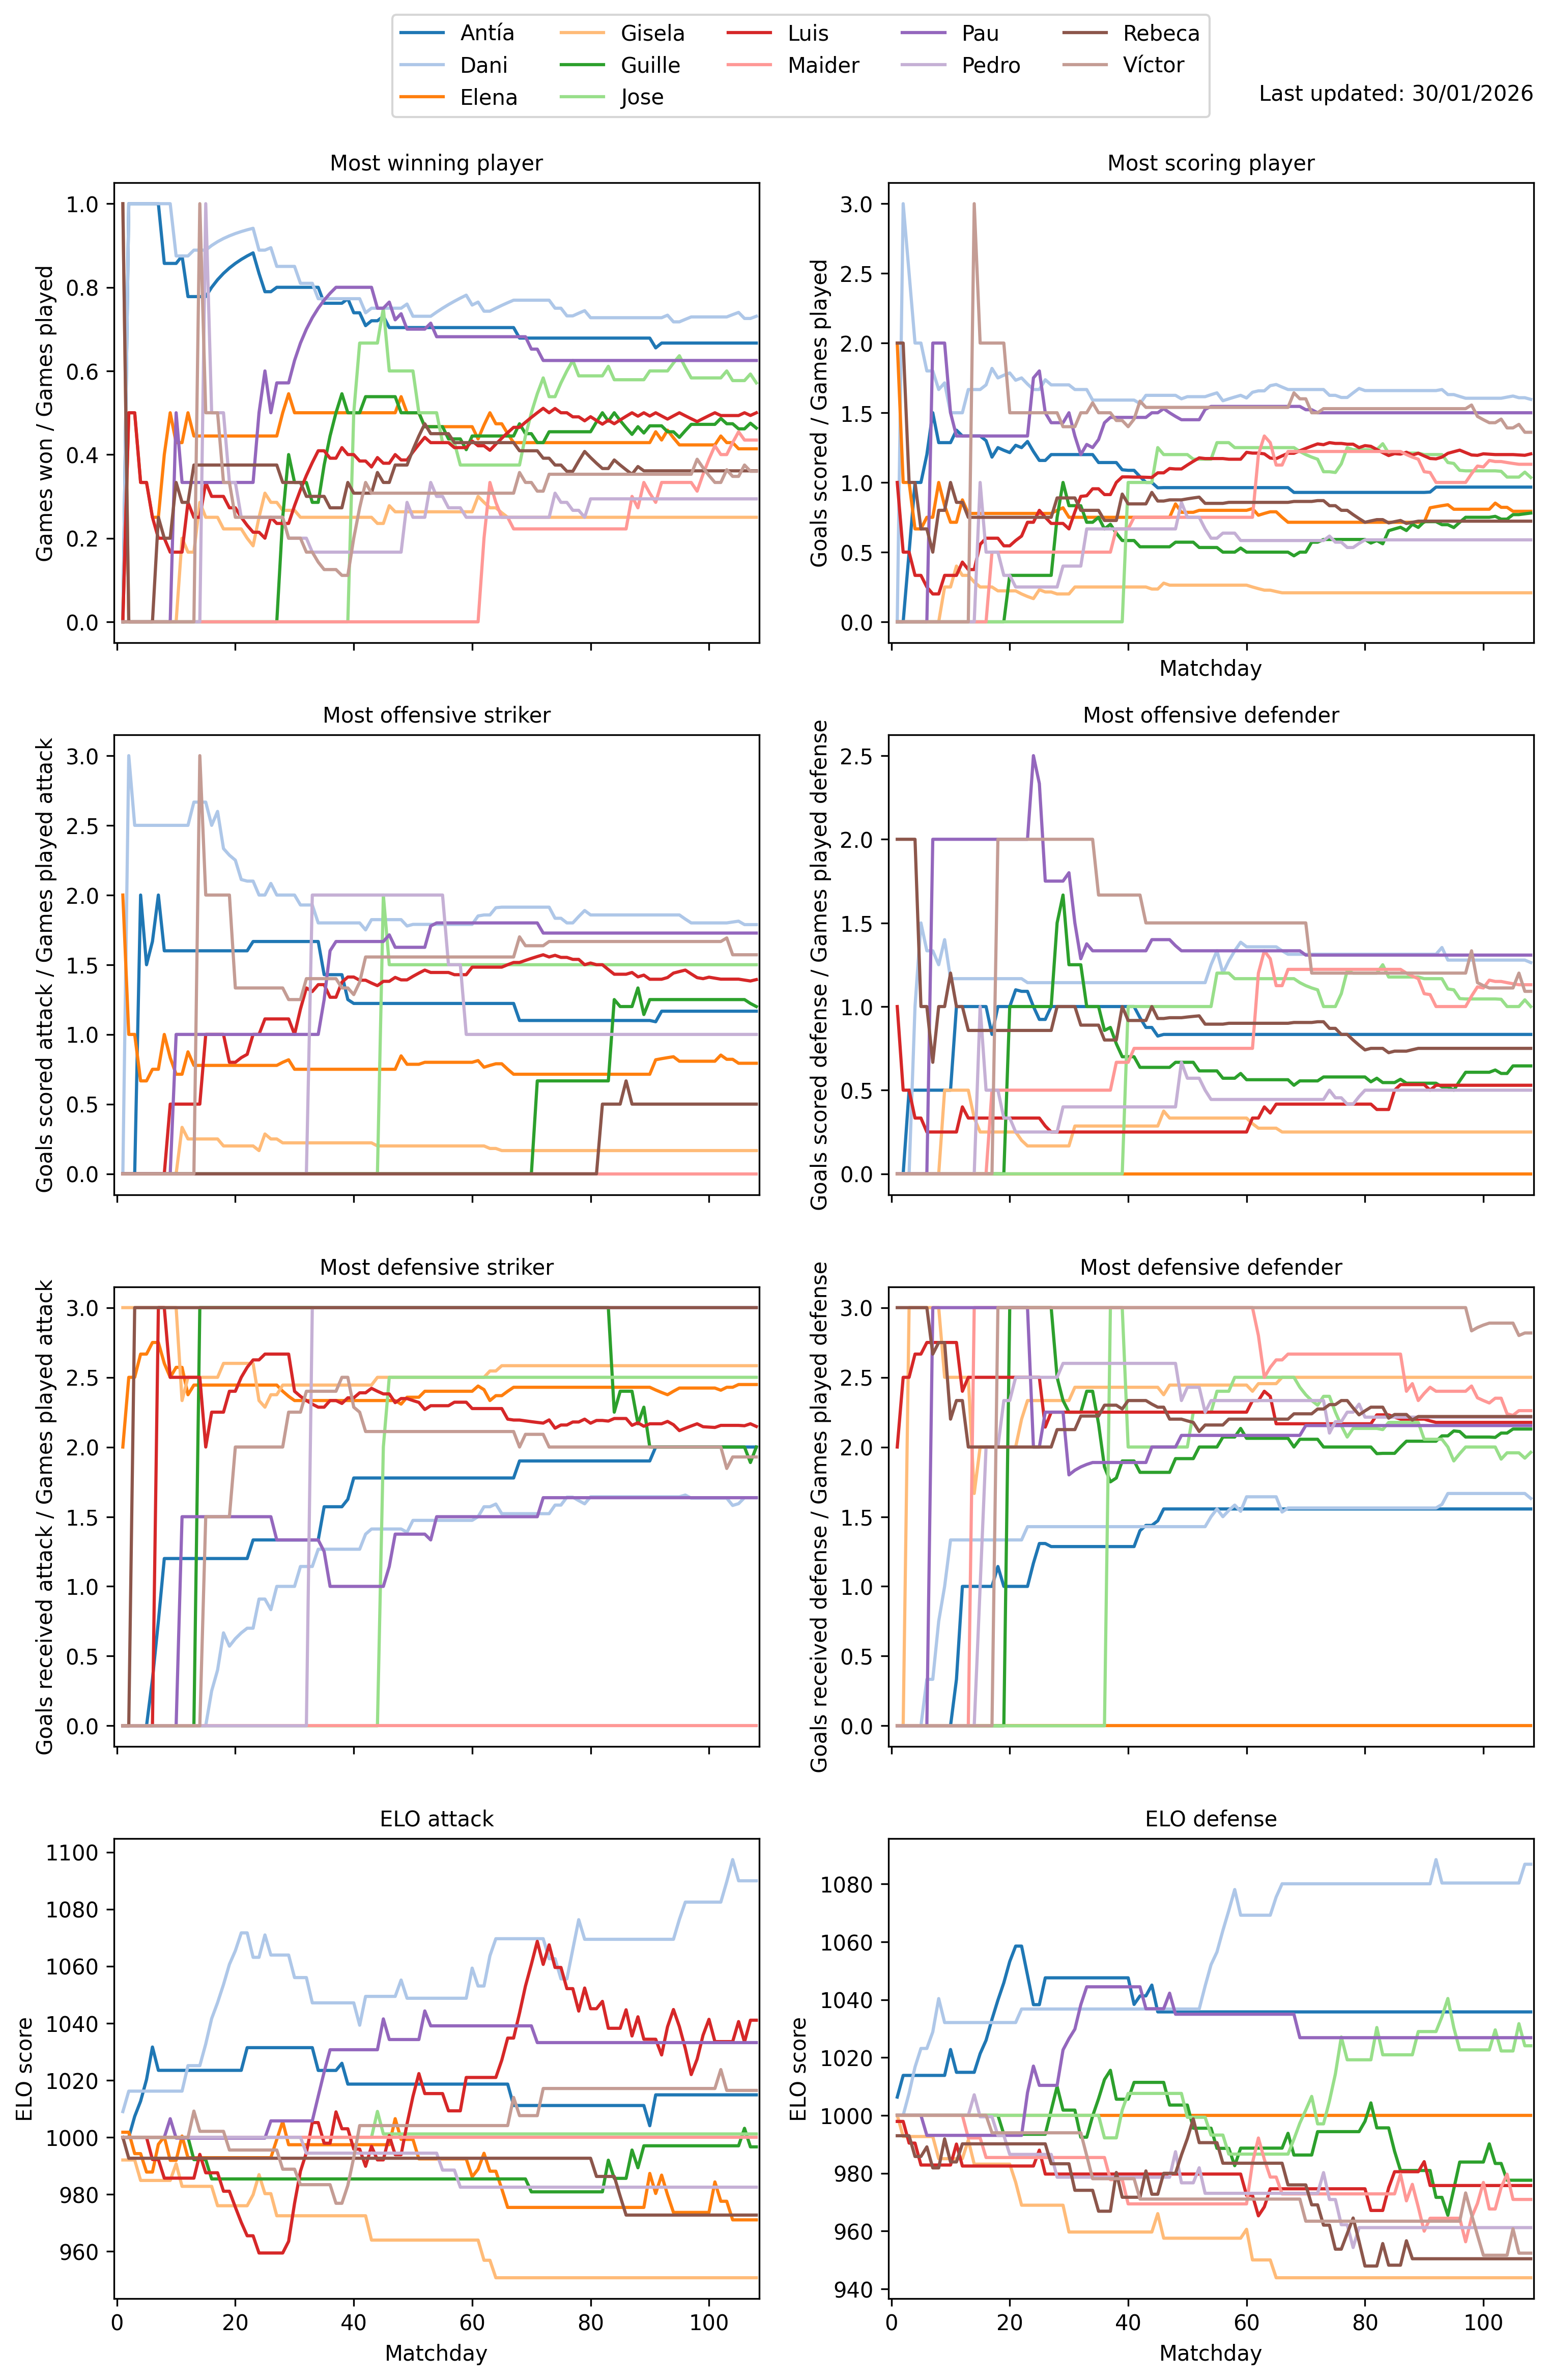
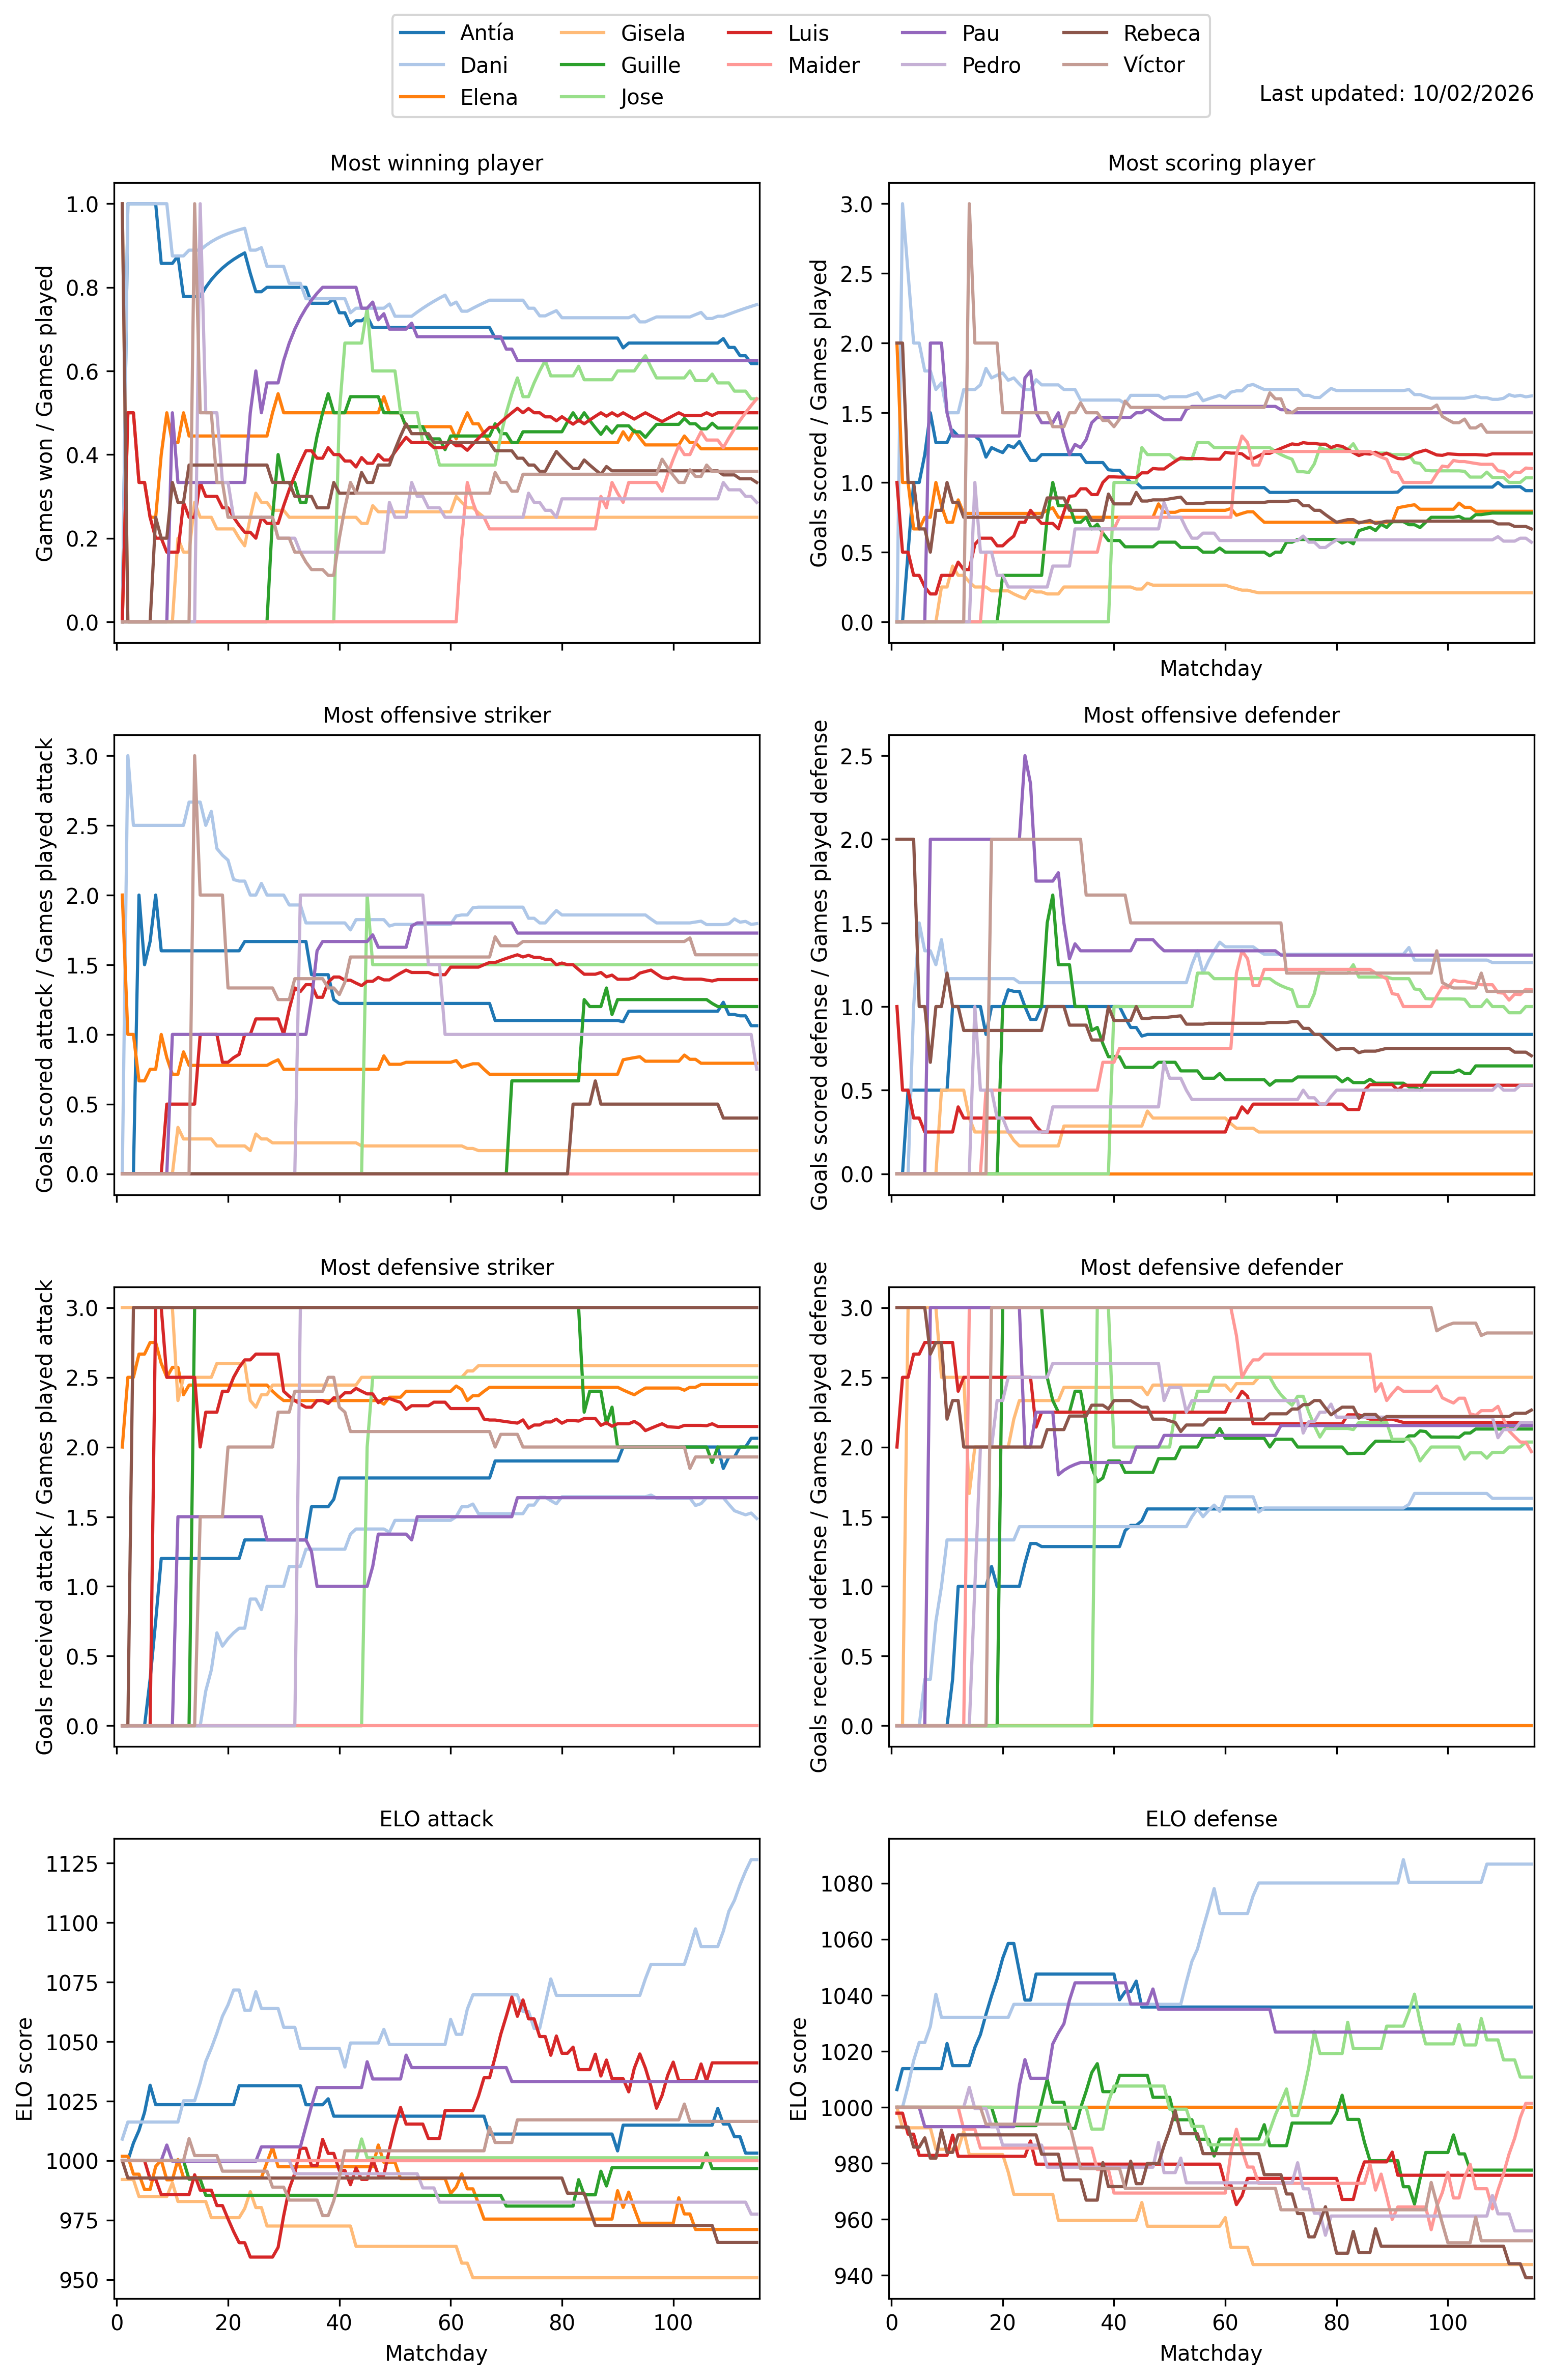
Updated to Matchday 17

diff --git a/results/winplayed_stats.html b/results/winplayed_stats.html
@@ -1,74 +1,74 @@
 <style type="text/css">
 </style>
-<table id="T_5bf5f">
-  <caption>Games won / Games played (Matchday 108)</caption>
+<table id="T_b47fa">
+  <caption>Games won / Games played (Matchday 115)</caption>
   <thead>
     <tr>
       <th class="blank level0" >&nbsp;</th>
-      <th id="T_5bf5f_level0_col0" class="col_heading level0 col0" >0</th>
-      <th id="T_5bf5f_level0_col1" class="col_heading level0 col1" >1</th>
+      <th id="T_b47fa_level0_col0" class="col_heading level0 col0" >0</th>
+      <th id="T_b47fa_level0_col1" class="col_heading level0 col1" >1</th>
     </tr>
   </thead>
   <tbody>
     <tr>
-      <th id="T_5bf5f_level0_row0" class="row_heading level0 row0" >1</th>
-      <td id="T_5bf5f_row0_col0" class="data row0 col0" >Dani</td>
-      <td id="T_5bf5f_row0_col1" class="data row0 col1" >0.73</td>
+      <th id="T_b47fa_level0_row0" class="row_heading level0 row0" >1</th>
+      <td id="T_b47fa_row0_col0" class="data row0 col0" >Dani</td>
+      <td id="T_b47fa_row0_col1" class="data row0 col1" >0.76</td>
     </tr>
     <tr>
-      <th id="T_5bf5f_level0_row1" class="row_heading level0 row1" >2</th>
-      <td id="T_5bf5f_row1_col0" class="data row1 col0" >Antía</td>
-      <td id="T_5bf5f_row1_col1" class="data row1 col1" >0.67</td>
+      <th id="T_b47fa_level0_row1" class="row_heading level0 row1" >2</th>
+      <td id="T_b47fa_row1_col0" class="data row1 col0" >Pau</td>
+      <td id="T_b47fa_row1_col1" class="data row1 col1" >0.62</td>
     </tr>
     <tr>
-      <th id="T_5bf5f_level0_row2" class="row_heading level0 row2" >3</th>
-      <td id="T_5bf5f_row2_col0" class="data row2 col0" >Pau</td>
-      <td id="T_5bf5f_row2_col1" class="data row2 col1" >0.62</td>
+      <th id="T_b47fa_level0_row2" class="row_heading level0 row2" >3</th>
+      <td id="T_b47fa_row2_col0" class="data row2 col0" >Antía</td>
+      <td id="T_b47fa_row2_col1" class="data row2 col1" >0.62</td>
     </tr>
     <tr>
-      <th id="T_5bf5f_level0_row3" class="row_heading level0 row3" >4</th>
-      <td id="T_5bf5f_row3_col0" class="data row3 col0" >Jose</td>
-      <td id="T_5bf5f_row3_col1" class="data row3 col1" >0.57</td>
+      <th id="T_b47fa_level0_row3" class="row_heading level0 row3" >4</th>
+      <td id="T_b47fa_row3_col0" class="data row3 col0" >Maider</td>
+      <td id="T_b47fa_row3_col1" class="data row3 col1" >0.53</td>
     </tr>
     <tr>
-      <th id="T_5bf5f_level0_row4" class="row_heading level0 row4" >5</th>
-      <td id="T_5bf5f_row4_col0" class="data row4 col0" >Luis</td>
-      <td id="T_5bf5f_row4_col1" class="data row4 col1" >0.5</td>
+      <th id="T_b47fa_level0_row4" class="row_heading level0 row4" >5</th>
+      <td id="T_b47fa_row4_col0" class="data row4 col0" >Jose</td>
+      <td id="T_b47fa_row4_col1" class="data row4 col1" >0.53</td>
     </tr>
     <tr>
-      <th id="T_5bf5f_level0_row5" class="row_heading level0 row5" >6</th>
-      <td id="T_5bf5f_row5_col0" class="data row5 col0" >Guille</td>
-      <td id="T_5bf5f_row5_col1" class="data row5 col1" >0.46</td>
+      <th id="T_b47fa_level0_row5" class="row_heading level0 row5" >6</th>
+      <td id="T_b47fa_row5_col0" class="data row5 col0" >Luis</td>
+      <td id="T_b47fa_row5_col1" class="data row5 col1" >0.5</td>
     </tr>
     <tr>
-      <th id="T_5bf5f_level0_row6" class="row_heading level0 row6" >7</th>
-      <td id="T_5bf5f_row6_col0" class="data row6 col0" >Maider</td>
-      <td id="T_5bf5f_row6_col1" class="data row6 col1" >0.43</td>
+      <th id="T_b47fa_level0_row6" class="row_heading level0 row6" >7</th>
+      <td id="T_b47fa_row6_col0" class="data row6 col0" >Guille</td>
+      <td id="T_b47fa_row6_col1" class="data row6 col1" >0.46</td>
     </tr>
     <tr>
-      <th id="T_5bf5f_level0_row7" class="row_heading level0 row7" >8</th>
-      <td id="T_5bf5f_row7_col0" class="data row7 col0" >Elena</td>
-      <td id="T_5bf5f_row7_col1" class="data row7 col1" >0.41</td>
+      <th id="T_b47fa_level0_row7" class="row_heading level0 row7" >8</th>
+      <td id="T_b47fa_row7_col0" class="data row7 col0" >Elena</td>
+      <td id="T_b47fa_row7_col1" class="data row7 col1" >0.41</td>
     </tr>
     <tr>
-      <th id="T_5bf5f_level0_row8" class="row_heading level0 row8" >9</th>
-      <td id="T_5bf5f_row8_col0" class="data row8 col0" >Rebeca</td>
-      <td id="T_5bf5f_row8_col1" class="data row8 col1" >0.36</td>
+      <th id="T_b47fa_level0_row8" class="row_heading level0 row8" >9</th>
+      <td id="T_b47fa_row8_col0" class="data row8 col0" >Víctor</td>
+      <td id="T_b47fa_row8_col1" class="data row8 col1" >0.36</td>
     </tr>
     <tr>
-      <th id="T_5bf5f_level0_row9" class="row_heading level0 row9" >10</th>
-      <td id="T_5bf5f_row9_col0" class="data row9 col0" >Víctor</td>
-      <td id="T_5bf5f_row9_col1" class="data row9 col1" >0.36</td>
+      <th id="T_b47fa_level0_row9" class="row_heading level0 row9" >10</th>
+      <td id="T_b47fa_row9_col0" class="data row9 col0" >Rebeca</td>
+      <td id="T_b47fa_row9_col1" class="data row9 col1" >0.33</td>
     </tr>
     <tr>
-      <th id="T_5bf5f_level0_row10" class="row_heading level0 row10" >11</th>
-      <td id="T_5bf5f_row10_col0" class="data row10 col0" >Pedro</td>
-      <td id="T_5bf5f_row10_col1" class="data row10 col1" >0.29</td>
+      <th id="T_b47fa_level0_row10" class="row_heading level0 row10" >11</th>
+      <td id="T_b47fa_row10_col0" class="data row10 col0" >Pedro</td>
+      <td id="T_b47fa_row10_col1" class="data row10 col1" >0.29</td>
     </tr>
     <tr>
-      <th id="T_5bf5f_level0_row11" class="row_heading level0 row11" >12</th>
-      <td id="T_5bf5f_row11_col0" class="data row11 col0" >Gisela</td>
-      <td id="T_5bf5f_row11_col1" class="data row11 col1" >0.25</td>
+      <th id="T_b47fa_level0_row11" class="row_heading level0 row11" >12</th>
+      <td id="T_b47fa_row11_col0" class="data row11 col0" >Gisela</td>
+      <td id="T_b47fa_row11_col1" class="data row11 col1" >0.25</td>
     </tr>
   </tbody>
 </table>